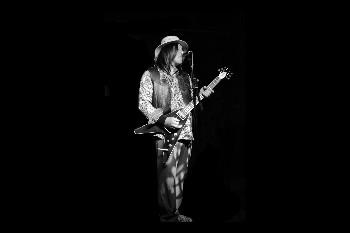
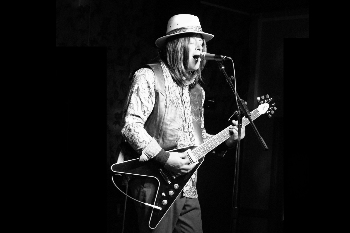
meetheband-info changes

Changed region(s): [[0.3143, 0.0601, 0.8, 1.0]]

diff --git a/slyde.css b/slyde.css
@@ -87,11 +87,22 @@ nav li:hover {
 }
 
 #bandmemberinfo-container {
+
+}
+
+#bandmemberinfo-container img {
+  max-width: 350px;
+  float: left;
+  margin: 5px;
+
+}
+
+#nobby-info {
+  border: red 2px solid;
   width: 100%;
   background-color: black;
   height: auto;
   margin-top: 10px;
-  border: 1px red solid;
   color: #fff;
   font-family: Arial;
   font-size: 12px;
@@ -100,11 +111,46 @@ nav li:hover {
   padding: 5px;
 }
 
-#bandmemberinfo-container img {
-  max-width: 350px;
-  float: left;
-  margin: 5px;
+#dave-info {
+  border: silver 2px solid;
+  width: 100%;
+  background-color: black;
+  height: auto;
+  margin-top: 10px;
+  color: #fff;
+  font-family: Arial;
+  font-size: 12px;
+  text-transform: uppercase;
+  overflow: hidden;
+  padding: 5px;
+}
 
+#jammy-info {
+  border: #3A757C 2px solid;
+  width: 100%;
+  background-color: black;
+  height: auto;
+  margin-top: 10px;
+  color: #fff;
+  font-family: Arial;
+  font-size: 12px;
+  text-transform: uppercase;
+  overflow: hidden;
+  padding: 5px;
+}
+
+#dozy-info {
+  border: yellow 2px solid;
+  width: 100%;
+  background-color: black;
+  height: auto;
+  margin-top: 10px;
+  color: #fff;
+  font-family: Arial;
+  font-size: 12px;
+  text-transform: uppercase;
+  overflow: hidden;
+  padding: 5px;
 }
 
 .gallery {

diff --git a/slyde.html b/slyde.html
@@ -173,7 +173,7 @@ BAND MEMBERS NEED TO FORM BLOCK WHEN BROWSER IS MADE SMALLER.
             SLYDE HAVE SUPPORTED ARTISTS SUCH AS THE RUBETTES, BAY CITY ROLLERS, SMOKIE, BONEY M AND THE LATE ALVIN STARDUST. THEY ARE THE LONGEST RUNNING TRIBUTE TO THE MUSIC OF SLADE AND HAVE PERFORMED WITH THEM AT 70'S WEEKENDERS, UNDER THE NAME OF GLAMROCK UK.</p>
           </div>
           <div id="dave-info" class="collapse">
-            <img src="img/.jpg" class="img-responsive"/>
+            <img src="img/DAVE_THRILL.jpg" class="img-responsive"/>
             <h4>DAVE THRILL</h4>
             <p>THE 1970'S HOSTED ONE OF THE MOST FLAMBOYANT DECADES IN THE HISTORY OF POP MUSIC AND ARTISTS SUCH AS SWEET, DAVID BOWIE, WIZZARD, T-REX AND MUD CHAMPIONED THE "GLAM ROCK" MOVEMENT, WHERE PLATFORM BOOTS, SEQUINNED SHIRTS, TWO-TONE FLARED TROUSERS AND OUTRAGEOUS MAKE-UP, BECAME THE NORM FOR MANY POP BANDS.
 
